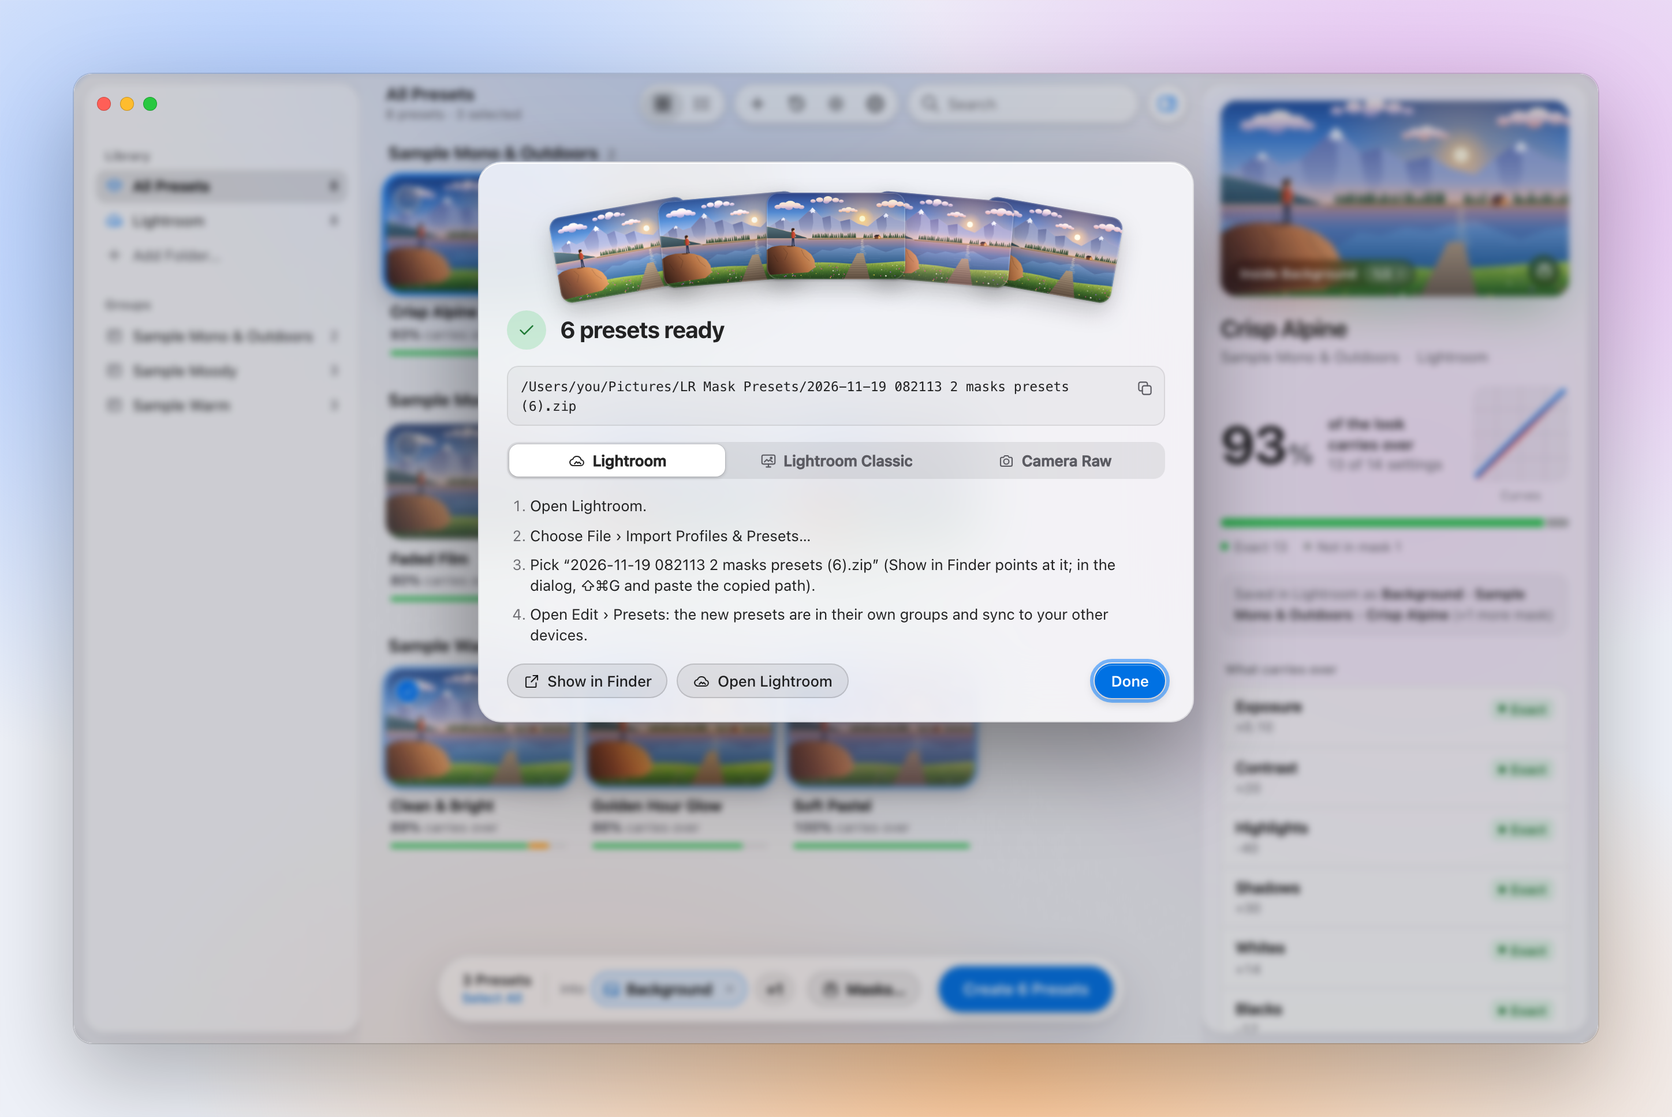
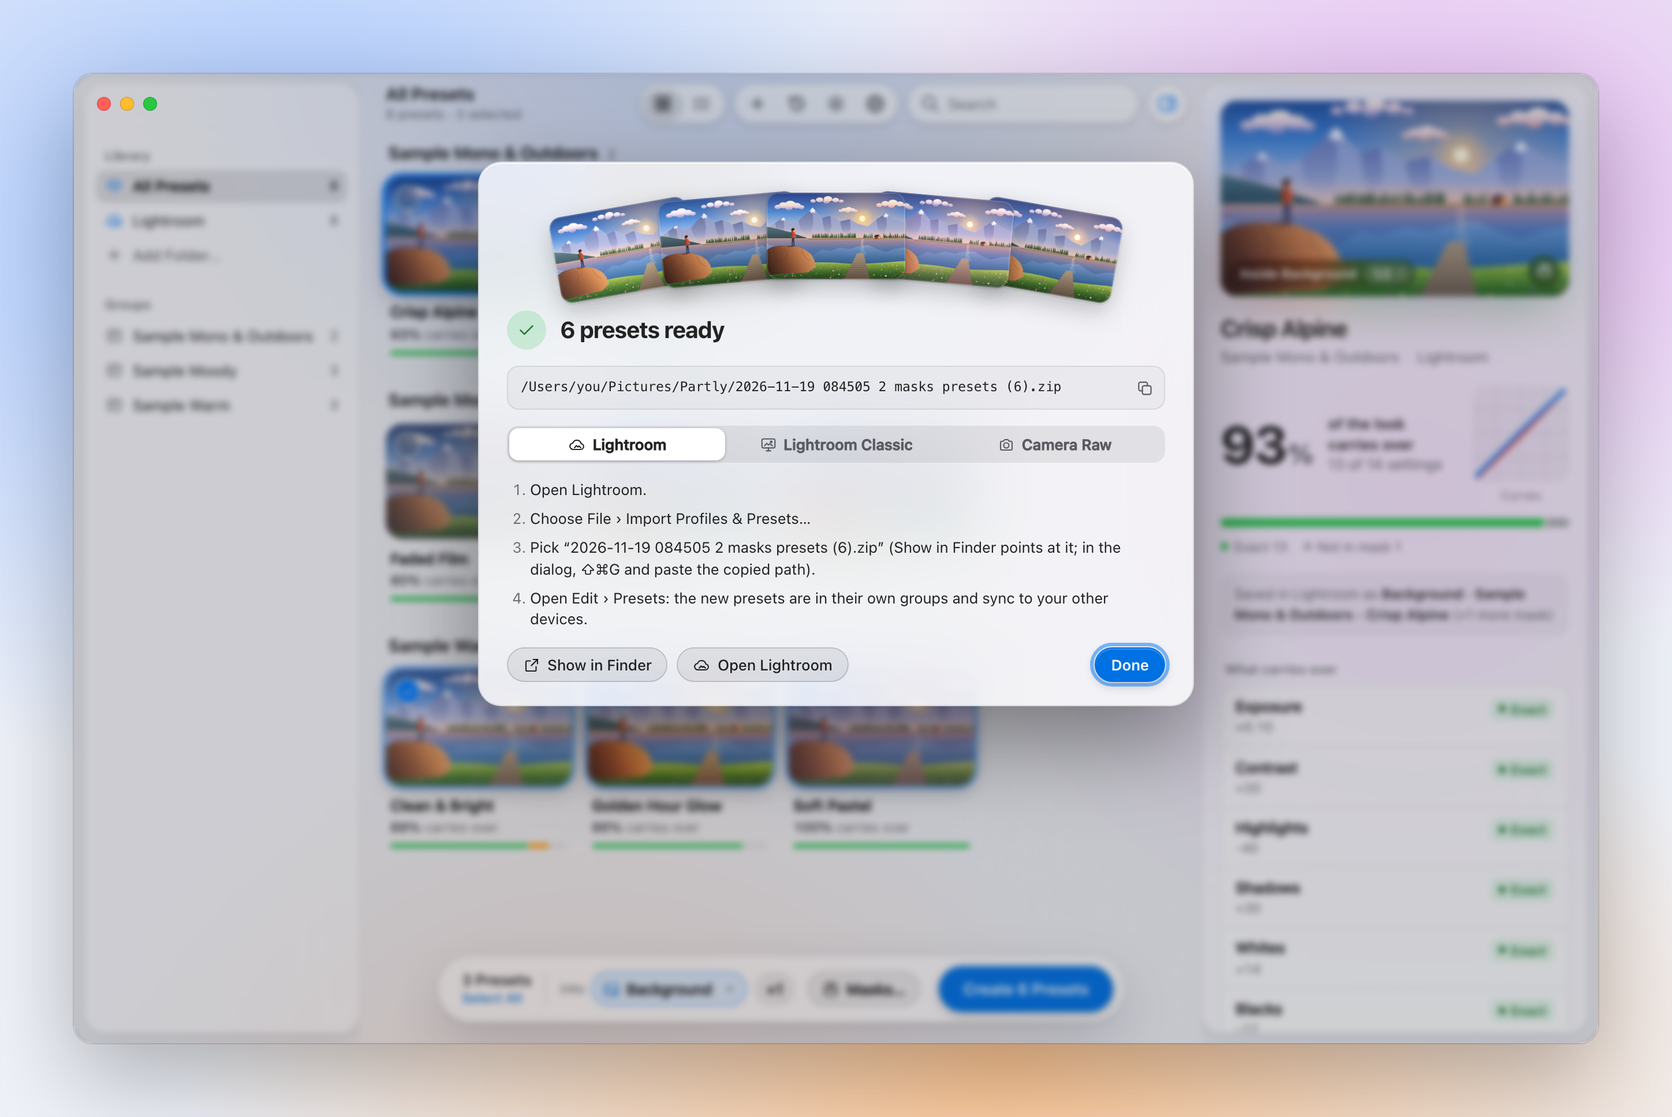
Rename to Partly, a preset to mask converter for Lightroom (1.0.1)
- The app, window, menus, DMG (dist/Partly.dmg), zip, README and docs are now "Partly", described
  as "Preset to Mask Converter for Lightroom" so Lightroom users find it by what they search.
- The repo is now pvn-ptl/partly-lightroom-preset-converter (GitHub redirects the old URL).
- Compatible with 1.0.0: presets marked "made with LR Mask Presets" are still recognised;
  the "LR Mask Presets" install and output folders are kept where they exist; the bundle ID
  and settings key are unchanged, so settings and history carry over.

Changed region(s): [[0.2797, 0.3409, 0.7148, 0.6508]]

diff --git a/macos/main.swift b/macos/main.swift
@@ -1,4 +1,4 @@
-// LR Mask Presets for macOS: a native window around the web UI in web/.
+// Partly (preset to mask converter for Lightroom) for macOS: a native window around the web UI in web/.
 // Swift finds presets on disk, shows open/save panels and writes files; the page does the converting.
 //
 // Modes for development (see scripts/build-mac-app.sh):
@@ -76,12 +76,18 @@ struct Places {
     var cameraRawUser: URL { home.appendingPathComponent("Library/Application Support/Adobe/CameraRaw/Settings") }
     var classicTemplates: URL { home.appendingPathComponent("Library/Application Support/Adobe/Lightroom/Develop Presets") }
     var cameraRawSystem: URL { systemLibrary.appendingPathComponent("Application Support/Adobe/CameraRaw/Settings") }
-    var installFolder: URL { cameraRawUser.appendingPathComponent("LR Mask Presets") }
+    // Version 1.0.0 was called LR Mask Presets. Keep using its folders where they exist, so presets already installed
+    // aren't duplicated in a second folder and new exports land next to the earlier ones.
+    var installFolder: URL { earlier(cameraRawUser, "LR Mask Presets") ?? cameraRawUser.appendingPathComponent("Partly") }
+    private func earlier(_ parent: URL, _ name: String) -> URL? {
+        let url = parent.appendingPathComponent(name)
+        return FileManager.default.fileExists(atPath: url.path) ? url : nil
+    }
 
     var outputFolder: URL {
         get {
             if let path = defaults.string(forKey: "outputFolder"), !path.isEmpty { return URL(fileURLWithPath: path) }
-            return home.appendingPathComponent("Pictures/LR Mask Presets")
+            return earlier(home, "Pictures/LR Mask Presets") ?? home.appendingPathComponent("Pictures/Partly")
         }
         nonmutating set { defaults.set(newValue.path, forKey: "outputFolder") }
     }
@@ -627,7 +633,7 @@ final class AppDelegate: NSObject, NSApplicationDelegate, WKNavigationDelegate, 
         // as tall as the page's own toolbar, so the traffic lights sit in the sidebar the way they do in Finder.
         window = NSWindow(contentRect: NSRect(origin: .zero, size: options.size),
                           styleMask: [.titled, .closable, .miniaturizable, .resizable, .fullSizeContentView], backing: .buffered, defer: false)
-        window.title = "LR Mask Presets"
+        window.title = "Partly"
         window.titleVisibility = .hidden
         window.titlebarAppearsTransparent = true
         window.titlebarSeparatorStyle = .none
@@ -718,7 +724,7 @@ final class AppDelegate: NSObject, NSApplicationDelegate, WKNavigationDelegate, 
     }
 
     @objc func openProjectPage(_ sender: Any?) {
-        NSWorkspace.shared.open(URL(string: "https://github.com/pvn-ptl/lr-mask-presets")!)
+        NSWorkspace.shared.open(URL(string: "https://github.com/pvn-ptl/partly-lightroom-preset-converter")!)
     }
 
     // MARK: Menus
@@ -741,12 +747,12 @@ final class AppDelegate: NSObject, NSApplicationDelegate, WKNavigationDelegate, 
             return menu
         }
 
-        let quit = NSMenuItem(title: "Quit LR Mask Presets", action: #selector(NSApplication.terminate(_:)), keyEquivalent: "q")
-        let hide = NSMenuItem(title: "Hide LR Mask Presets", action: #selector(NSApplication.hide(_:)), keyEquivalent: "h")
+        let quit = NSMenuItem(title: "Quit Partly", action: #selector(NSApplication.terminate(_:)), keyEquivalent: "q")
+        let hide = NSMenuItem(title: "Hide Partly", action: #selector(NSApplication.hide(_:)), keyEquivalent: "h")
         let hideOthers = NSMenuItem(title: "Hide Others", action: #selector(NSApplication.hideOtherApplications(_:)), keyEquivalent: "h")
         hideOthers.keyEquivalentModifierMask = [.command, .option]
-        _ = submenu("LR Mask Presets", [
-            NSMenuItem(title: "About LR Mask Presets", action: #selector(NSApplication.orderFrontStandardAboutPanel(_:)), keyEquivalent: ""),
+        _ = submenu("Partly", [
+            NSMenuItem(title: "About Partly", action: #selector(NSApplication.orderFrontStandardAboutPanel(_:)), keyEquivalent: ""),
             .separator(),
             item("Settings…", "settings", ","),
             .separator(),
@@ -800,7 +806,7 @@ final class AppDelegate: NSObject, NSApplicationDelegate, WKNavigationDelegate, 
                 return full
             }(),
         ])
-        let help = NSMenuItem(title: "LR Mask Presets on GitHub", action: #selector(openProjectPage(_:)), keyEquivalent: "")
+        let help = NSMenuItem(title: "Partly on GitHub", action: #selector(openProjectPage(_:)), keyEquivalent: "")
         help.target = self
         let helpMenu = submenu("Help", [help])
         NSApp.mainMenu = main

diff --git a/web/app.js b/web/app.js
@@ -396,7 +396,7 @@ function renderToolbar() {
   const src = state.filter === "all" ? null : state.sources.find((s) => s.key === state.filter);
   const title = state.group || src?.label || "All Presets";
   $("viewTitle").textContent = title;
-  document.title = state.entries.length ? `${title} – LR Mask Presets` : "LR Mask Presets";
+  document.title = state.entries.length ? `${title} – Partly` : "Partly: Preset to Mask Converter for Lightroom";
   const total = scopeEntries().length;
   const parts = [];
   if (!state.entries.length) parts.push("No presets yet");
@@ -539,7 +539,7 @@ function welcome() {
   return h("div", { class: "welcome" },
     h("div", { class: "drop-target" },
       h("div", { class: "halo" }, icon("masks", 32)),
-      h("h2", { text: native ? "Let's find your presets" : "Turn any Lightroom preset into a masked preset" }),
+      h("h2", { text: native ? "Let's find your presets" : "Convert any Lightroom preset into a mask preset" }),
       h("p", { text: native
         ? "No Lightroom presets turned up in the usual places on this Mac. Choose a folder of presets, drop a preset pack on this window, or try the samples."
         : "Pick a preset and where it should go: background, subject, sky, people, skin, water and more. You get a new preset that applies the look inside an AI mask. Everything happens on your computer; nothing is uploaded." }),
@@ -1666,11 +1666,11 @@ function showSettings(tab = "sources") {
     }),
     about: () => ({
       body: h("div", { class: "settings-list about" },
-        h("p", null, h("b", { text: "LR Mask Presets" }), document.documentElement.dataset.version ? ` ${document.documentElement.dataset.version}` : ""),
+        h("p", null, h("b", { text: "Partly" }), document.documentElement.dataset.version ? ` ${document.documentElement.dataset.version}` : "", h("br"), h("span", { class: "muted", text: "Preset to mask converter for Lightroom, Lightroom Classic and Camera Raw" })),
         h("p", { class: "muted", text: "Turns Lightroom presets into presets that apply the look inside an AI mask: background, subject, sky, people, landscape parts and more." }),
         h("p", { class: "muted", text: "Private by design: presets are read on this computer and never uploaded. The app makes no network requests. It only reads Lightroom's folders; it never changes them." }),
         h("p", { class: "muted", text: "Not made by or affiliated with Adobe. Lightroom is a trademark of Adobe." })),
-      start: [h("button", { class: "link", text: "Project page on GitHub", onclick: () => platform.openURL("https://github.com/pvn-ptl/lr-mask-presets") })],
+      start: [h("button", { class: "link", text: "Project page on GitHub", onclick: () => platform.openURL("https://github.com/pvn-ptl/partly-lightroom-preset-converter") })],
     }),
   };
   const page = pages[tab]();

diff --git a/web/app.css b/web/app.css
@@ -1,4 +1,4 @@
-/* LR Mask Presets: a Mac window in macOS's own materials. Dark is the default; light follows the system or Settings. */
+/* Partly: a Mac window in macOS's own materials. Dark is the default; light follows the system or Settings. */
 
 :root {
   --content: #1c1c1e; --elevated: #252528; --raised: #2c2c30; --tile: #262629; --sidebar-fill: #232326;
@@ -190,6 +190,7 @@ html.settled .app { transition: grid-template-columns .45s var(--spring-soft); }
 .sidebar-top { height: calc(var(--band) - var(--gap)); flex: none; display: flex; align-items: center; padding: 0 14px; }
 .app-mark { display: flex; align-items: center; gap: 9px; font-weight: 650; font-size: 13px; color: var(--label); white-space: nowrap; overflow: hidden; }
 .app-mark img { flex: none; border-radius: 6px; }
+.app-mark small { font-size: 11px; font-weight: 500; color: var(--label-2); overflow: hidden; text-overflow: ellipsis; }
 html.native .app-mark { display: none; } /* the traffic lights live here */
 
 .sidebar-scroll { position: relative; flex: 1; min-height: 0; overflow: auto; padding: 4px 10px 14px; }

diff --git a/web/core/preset.js b/web/core/preset.js
@@ -9,7 +9,9 @@ export const RDF = "http://www.w3.org/1999/02/22-rdf-syntax-ns#";
 export const MAX_PRESET_BYTES = 5 * 1024 * 1024;
 
 // Written into every preset this app makes, so they can be told apart once Lightroom syncs them back.
-export const MARKER = "made with LR Mask Presets";
+export const MARKER = "made with Partly";
+// What presets made by version 1.0.0 (then called LR Mask Presets) say instead.
+const EARLIER_MARKERS = ["made with LR Mask Presets"];
 
 const CURVE_KEYS = new Set(["ToneCurvePV2012", "ToneCurvePV2012Red", "ToneCurvePV2012Green", "ToneCurvePV2012Blue"]);
 
@@ -90,7 +92,7 @@ export function num(preset, key, fallback = 0) {
 }
 
 export function isConverted(preset) {
-  return preset.description.includes(MARKER);
+  return [MARKER, ...EARLIER_MARKERS].some((marker) => preset.description.includes(marker));
 }
 
 /** Profiles ("Look") and defaults files aren't presets; photo sidecars (no type) are allowed. */

diff --git a/web/index.html b/web/index.html
@@ -4,7 +4,7 @@
 <meta charset="utf-8">
 <meta name="viewport" content="width=device-width, initial-scale=1">
 <meta name="color-scheme" content="dark light">
-<title>LR Mask Presets</title>
+<title>Partly: Preset to Mask Converter for Lightroom</title>
 <link rel="icon" href="favicon.svg" type="image/svg+xml">
 <link rel="stylesheet" href="app.css">
 <script type="module" src="app.js"></script>
@@ -15,7 +15,7 @@
   <div class="sidebar-column" id="sidebarColumn">
     <aside class="sidebar" id="sidebar" aria-label="Library">
       <div class="sidebar-top" data-drag>
-        <div class="app-mark"><img src="favicon.svg" alt="" width="22" height="22"><span>LR Mask Presets</span></div>
+        <div class="app-mark"><img src="favicon.svg" alt="" width="22" height="22"><span>Partly</span><small>Preset Converter</small></div>
       </div>
       <nav class="sidebar-scroll" id="sources" aria-label="Sources and groups"></nav>
     </aside>

diff --git a/web/core/writer.js b/web/core/writer.js
@@ -83,7 +83,7 @@ export function buildPreset(preset, conv, targetId = "background", { group, name
 
   const description = `${t.label}-only version of “${preset.name}”${strength === 1 ? "" : ` at ${Math.round(strength * 100)}%`} (${MARKER})`;
   const out = [
-    '<x:xmpmeta xmlns:x="adobe:ns:meta/" x:xmptk="LR Mask Presets">',
+    '<x:xmpmeta xmlns:x="adobe:ns:meta/" x:xmptk="Partly">',
     ' <rdf:RDF xmlns:rdf="http://www.w3.org/1999/02/22-rdf-syntax-ns#">',
     '  <rdf:Description rdf:about=""',
     '    xmlns:crs="http://ns.adobe.com/camera-raw-settings/1.0/"',

diff --git a/README.md b/README.md
@@ -1,13 +1,15 @@
 <p align="center"><img src="docs/icon.png" width="112" alt=""></p>
 
-<h1 align="center">LR Mask Presets</h1>
+<h1 align="center">Partly</h1>
+
+<p align="center"><b>Preset to Mask Converter for Lightroom</b></p>
 
 <p align="center">
-Put any Lightroom preset on <b>just the background</b>, or just the subject, the sky, people's skin, the water…<br>
-A small Mac app that rebuilds a preset's look inside a Lightroom AI mask and saves it as a new preset.
+Convert any Lightroom preset into a <b>mask preset</b>: the same look on <b>just the background</b>, or just the subject,<br>
+the sky, people's skin, the water… A free Mac app for Lightroom, Lightroom Classic and Camera Raw.
 </p>
 
-<p align="center"><a href="https://github.com/pvn-ptl/lr-mask-presets/releases/latest/download/LR-Mask-Presets.dmg"><b>⬇ Download for Mac</b></a> (.dmg) · macOS 13 or later · Apple silicon and Intel · <a href="#install">How to install</a></p>
+<p align="center"><a href="https://github.com/pvn-ptl/partly-lightroom-preset-converter/releases/latest/download/Partly.dmg"><b>⬇ Download Partly for Mac</b></a> (.dmg) · macOS 13 or later · Apple silicon and Intel · <a href="#install">How to install</a></p>
 
 <p align="center"><img src="docs/demo.gif" width="880" alt="Picking a preset, choosing Sky and Skin in the mask picker, selecting two more presets, switching to the list view and creating the new presets"></p>
 
@@ -16,7 +18,7 @@ A small Mac app that rebuilds a preset's look inside a Lightroom AI mask and sav
 Lightroom presets change the whole photo. Often you want the look only behind your subject, or only on the sky.
 Doing that by hand means adding a mask and copying every slider into it, for every preset you own.
 
-LR Mask Presets does the copying. It takes the presets you already have and writes new ones that carry the same
+Partly does the copying: it's a converter for the presets you already have. It takes the presets you already have and writes new ones that carry the same
 look inside an AI mask such as **Select Background**. Apply one in Lightroom and it detects the background (or sky,
 skin, water…) on that photo and puts the look only there. The new presets sync to your other devices like any
 other preset.
@@ -36,8 +38,8 @@ other preset.
 
 ## Install
 
-1. Download **[LR-Mask-Presets.dmg](https://github.com/pvn-ptl/lr-mask-presets/releases/latest/download/LR-Mask-Presets.dmg)** (always the latest version) and open it.
-2. In the window that opens, drag **LR Mask Presets** onto the **Applications** folder beside it. Then eject the
+1. Download **[Partly.dmg](https://github.com/pvn-ptl/partly-lightroom-preset-converter/releases/latest/download/Partly.dmg)** (always the latest version) and open it.
+2. In the window that opens, drag **Partly** onto the **Applications** folder beside it. Then eject the
    disk image.
 3. Open the app from Applications. The first time, macOS will say it can't check the app for malicious software,
    because the app isn't notarized by Apple. Click **Done**, then go to **System Settings › Privacy & Security**,
@@ -45,7 +47,7 @@ other preset.
    **Open**.) You only do this once.
 
 Needs macOS 13 or later, on Apple silicon or Intel. Every [release](../../releases) lists the SHA-256 of its
-files, so you can check your download with `shasum -a 256 ~/Downloads/LR-Mask-Presets.dmg`. There's also a
+files, so you can check your download with `shasum -a 256 ~/Downloads/Partly.dmg`. There's also a
 `.zip` of the app on each release, and you can build it yourself: see [Development](#development).
 
 ## Use it
@@ -66,7 +68,7 @@ files, so you can check your download with `shasum -a 256 ~/Downloads/LR-Mask-Pr
 
 <p align="center"><img src="docs/masks-dark.png" width="760" alt="The mask picker: Scene, People and Landscape masks with Background, Sky and Skin picked, then Combine Masks and the Amount inside the mask"></p>
 
-3. **Create.** The new presets are saved as `.xmp` files and as one `.zip`, in `~/Pictures/LR Mask Presets`
+3. **Create.** The new presets are saved as `.xmp` files and as one `.zip`, in `~/Pictures/Partly`
    (you can change this in Settings). The clock button in the toolbar lists your **Recent Exports**: show one in
    Finder, or **Export Again** with the same presets, masks and options (handy after you've edited a preset in
    Lightroom).
@@ -143,7 +145,7 @@ Lightroom show up without pressing **Look for Presets Again**.
 ## Privacy
 
 Everything happens on your Mac. The app makes no network requests, and the only files it writes are the new
-presets: in your output folder, plus `CameraRaw/Settings/LR Mask Presets` if you click **Install for Classic &
+presets: in your output folder, plus `CameraRaw/Settings/Partly` if you click **Install for Classic &
 Camera Raw**.
 
 ## Other ways to run it
@@ -192,14 +194,17 @@ scripts/       build, sample presets, icon, docs screenshots, real-library smoke
 | Task | Command |
 | --- | --- |
 | Run the tests | `npm test` (Node 20+; the browser tests run when Chrome is installed) |
-| Build the Mac app | `scripts/build-mac-app.sh` → `dist/LR Mask Presets.app`, `dist/LR-Mask-Presets.dmg` and a `.zip` (needs Xcode Command Line Tools) |
-| Check the built app | `"dist/LR Mask Presets.app/Contents/MacOS/LR Mask Presets" --selftest` |
+| Build the Mac app | `scripts/build-mac-app.sh` → `dist/Partly.app`, `dist/Partly.dmg` and a `.zip` (needs Xcode Command Line Tools) |
+| Check the built app | `dist/Partly.app/Contents/MacOS/Partly --selftest` |
 | Check the disk image | `scripts/verify-dmg.sh` (mounts it read-only, checks the app, runs the self-test from the image) |
-| Publish a release | `gh release create vX.Y.Z dist/LR-Mask-Presets.dmg dist/LR-Mask-Presets-X.Y.Z-macOS.zip`; keep the `.dmg` name so the download link above always gets the latest |
+| Publish a release | `gh release create vX.Y.Z dist/Partly.dmg dist/Partly-X.Y.Z-macOS.zip`; keep the `.dmg` name so the download link above always gets the latest |
 | Check against your own presets | `node scripts/smoke-real.mjs` (read-only: converts every preset to every mask in memory) |
 | Regenerate screenshots & GIF | `PYTHON=/path/to/python-with-Pillow node scripts/capture-docs.mjs` |
 
 The sample presets in `web/samples` are original looks made for this project (`node scripts/make-samples.mjs`).
+
+Partly was called LR Mask Presets in version 1.0.0. Presets it made then are still recognised, and it keeps using
+the same folders if you have them.
 
 ---
 

diff --git a/DESIGN.md b/DESIGN.md
@@ -1,5 +1,5 @@
 ---
-name: LR Mask Presets
+name: Partly
 description: A Mac library window of frosted panels over a living dusk-sky canvas, that turns Lightroom presets into masked presets.
 colors:
   accent: "#0a84ff"
@@ -238,13 +238,13 @@ components:
     padding: "0 10px"
 ---
 
-# Design System: LR Mask Presets
+# Design System: Partly
 
 ## Overview
 
 **Creative North Star: "The Window Apple Would Have Shipped"**
 
-LR Mask Presets is one Mac window that reads like Photos or Finder: a floating sidebar of sources and groups, a library browsed as a grid of swatch tiles or a sortable list, an inspector on the right, and a floating glass bar at the bottom that holds the one primary action, Create. It is built from macOS's own materials rather than a web dashboard's boxes: frosted panels over a living canvas (a dusk sky of soft colour fields that leans toward the pointer), Liquid Glass capsules (blur, saturation, a specular top edge, a soft drop shadow) for everything that floats over content, system colours for meaning, SF Pro for text and SF Pro Rounded for the numbers that matter.
+Partly is one Mac window that reads like Photos or Finder: a floating sidebar of sources and groups, a library browsed as a grid of swatch tiles or a sortable list, an inspector on the right, and a floating glass bar at the bottom that holds the one primary action, Create. It is built from macOS's own materials rather than a web dashboard's boxes: frosted panels over a living canvas (a dusk sky of soft colour fields that leans toward the pointer), Liquid Glass capsules (blur, saturation, a specular top edge, a soft drop shadow) for everything that floats over content, system colours for meaning, SF Pro for text and SF Pro Rounded for the numbers that matter.
 
 Density is a desktop app's density, not a web page's: 13px body text, 30px controls, 8px insets, a 52px title band shared with the traffic lights. Colour is almost entirely neutral. The system blue marks selection and the primary action; green, orange, purple and gray say how a setting carries over and nothing else. The only rich colour on screen is the presets themselves, each drawn as a computed swatch: one made-up alpine lake at golden hour (sky and clouds, snowy peaks, a treeline, a cabin, a jetty, a meadow, a rock and a hiker) pushed through that preset's own settings. Every part of that scene is also a mask region, so the inspector can show the look only where the chosen mask is, which is what an export really does.
 

diff --git a/PRODUCT.md b/PRODUCT.md
@@ -14,7 +14,7 @@ behind the subject, on the sky, on skin. Primary users are the owner and the pho
 
 ## Product Purpose
 
-LR Mask Presets turns presets the photographer already owns into new presets that apply the same look only inside a
+Partly, a preset to mask converter for Lightroom, turns presets the photographer already owns into new presets that apply the same look only inside a
 Lightroom AI mask. Success is going from "I want this look only on the background" to a set of new presets imported
 into Lightroom in a minute or two, while trusting what carried over.
 
@@ -37,7 +37,7 @@ approximately, to the whole photo, or not at all.
 
 - macOS 13 or later, Apple silicon and Intel. One Swift file plus the web interface; no dependencies.
 - Entirely local: no network requests. Lightroom's own files are only ever read. The app writes only to its output
-  folder and, on request, `~/Library/Application Support/Adobe/CameraRaw/Settings/LR Mask Presets`.
+  folder and, on request, `~/Library/Application Support/Adobe/CameraRaw/Settings/Partly` (or `LR Mask Presets`, where 1.0.0 installed them).
 - 24 masks in three families (scene, people, landscape). Each setting is reported as Exact, Approximate, Whole photo
   or Not in mask.
 - Accepts `.xmp`, `.lrtemplate`, `.zip` packs and folders, by picker or drag and drop.
@@ -46,7 +46,7 @@ approximately, to the whole photo, or not at all.
 
 ## Brand Commitments
 
-- Name: LR Mask Presets.
+- Name: Partly (1.0.0 was called LR Mask Presets). Described as "Preset to Mask Converter for Lightroom": the words people search, with Lightroom only in the descriptor.
 - The user's own words for the look, binding: "make this look like apple built the app with all kinds of blur and
   glass effects also with amazing animations".
 
